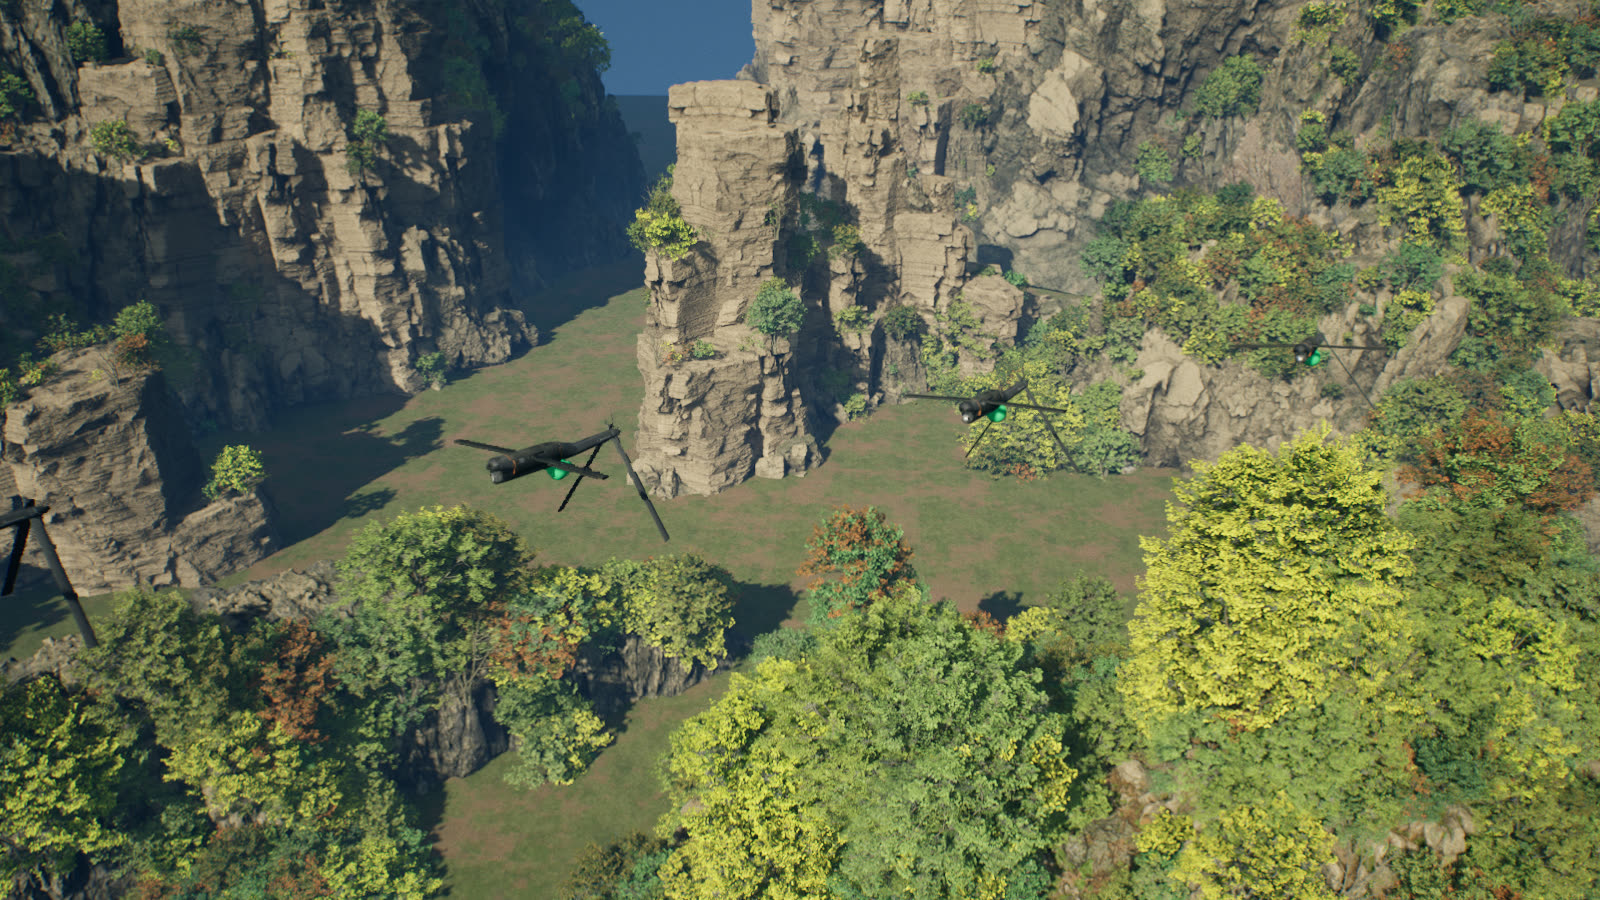
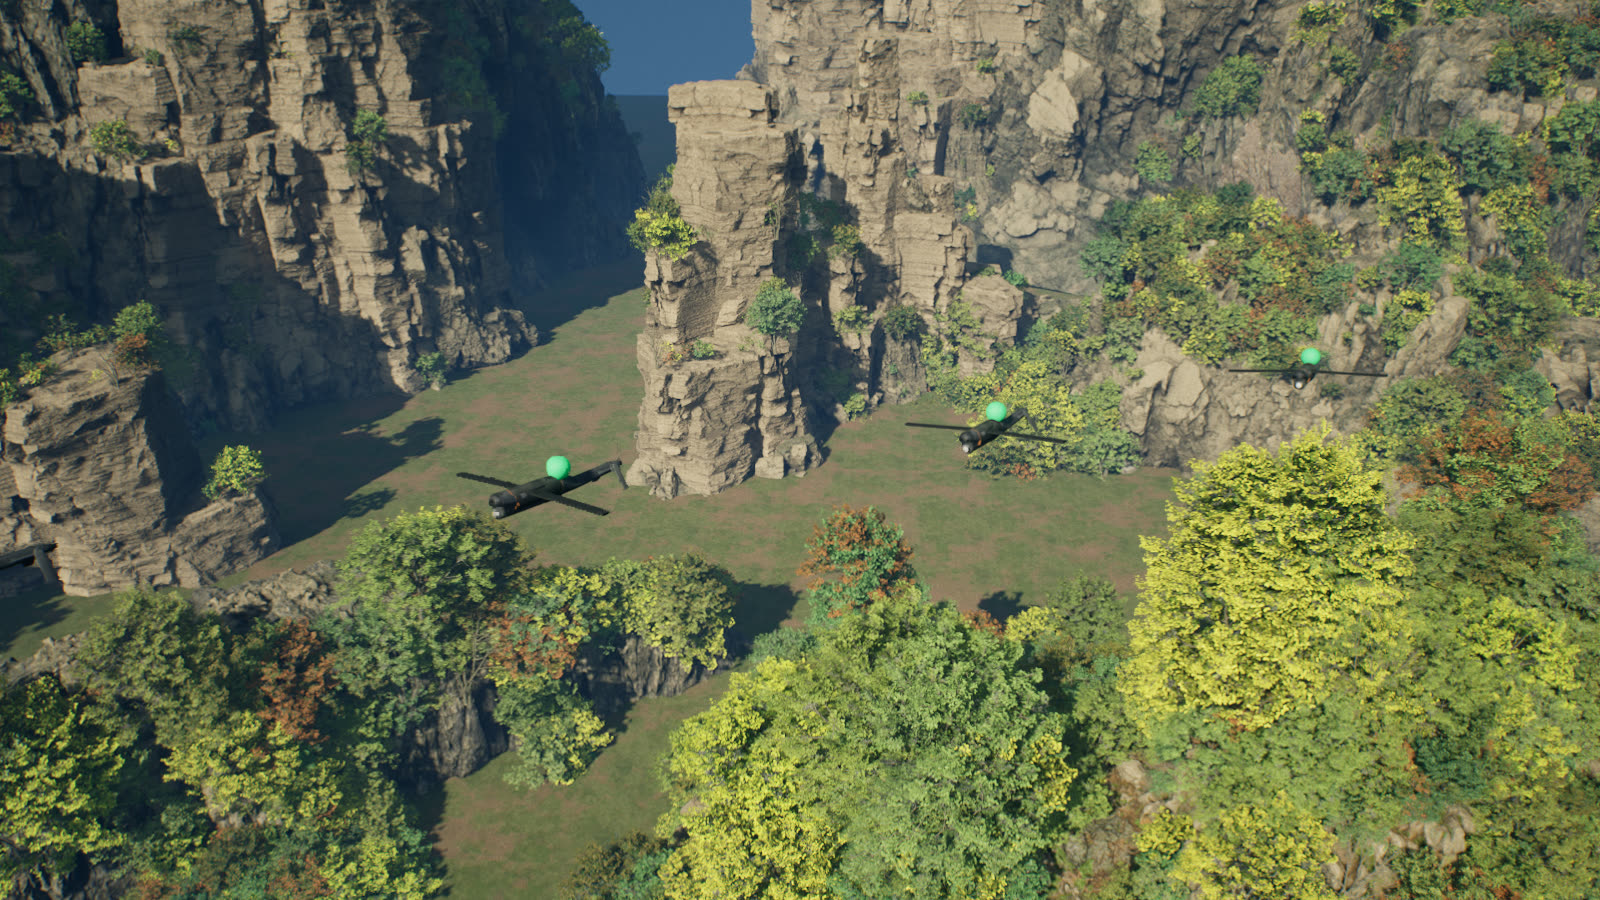
docs: bake the ALTIUS model's transforms before importing it; recapture the images
Unreal's glTF import composes the ALTIUS 700M model's nested non-uniform node scales wrongly. Each
imported mesh's bounds were compared with the exact world-space bounds computed from the glTF's
vertices: the fuselage, wings, and spinner matched, but the two tail surfaces were 4.3 and 4.55
times too large and the propeller blades 1.2 to 1.5 times too long and thinner than they should be.

scripts/bake_gltf_transforms.py bakes every node's world transform into its vertices and flattens
the hierarchy (reversing the winding of the eight meshes whose transforms mirror). The baked model
imports with bounds that match the glTF. docs/DEVELOPMENT.md now says how to bake and import the
model, which is not in the repository, and how to check the import; docs/MODELS.md and the viewer
phase document record the finding. The hero GIF and the three README screenshots are recaptured
with the corrected model.

diff --git a/scripts/bake_gltf_transforms.py b/scripts/bake_gltf_transforms.py
@@ -1,0 +1,203 @@
+"""Bakes the world transform of every mesh node of a glTF into its vertices and flattens the nodes.
+
+Usage:
+    python scripts/bake_gltf_transforms.py INPUT_DIR OUTPUT_DIR
+
+INPUT_DIR holds scene.gltf, scene.bin, and the folders it refers to (textures). OUTPUT_DIR gets the
+flattened scene.gltf and scene.bin, and a copy of everything else.
+
+Why: the ALTIUS 700M model nests nodes under parents with non-uniform scales (a parent scaled 4.55
+along one axis, its child scaled 0.22 so that the pair is a plain 1). Unreal's glTF import composes
+such chains wrongly: the tail surfaces came out 4.3 and 4.55 times too large and the propeller
+blades 1.2 to 1.5 times too long. With the transforms baked into the vertices, every mesh node is a
+child of one root with no transform, so there is no chain to compose.
+
+Positions are transformed by the world matrix. Normals are transformed by the inverse transpose of
+its linear part and renormalized. A world matrix that mirrors (a negative determinant) reverses the
+triangle winding. Texture coordinates, materials, and node and mesh names are kept. Only stdlib.
+"""
+
+import copy
+import json
+import math
+import os
+import shutil
+import struct
+import sys
+
+FLOAT = 5126
+USHORT = 5123
+UINT = 5125
+ARRAY_BUFFER = 34962
+ELEMENT_ARRAY_BUFFER = 34963
+
+
+def mat_mul(a, b):
+    return [[sum(a[i][k] * b[k][j] for k in range(4)) for j in range(4)] for i in range(4)]
+
+
+def local_matrix(node):
+    if "matrix" in node:
+        m = node["matrix"]
+        return [[m[c * 4 + r] for c in range(4)] for r in range(4)]
+    t = node.get("translation", [0.0, 0.0, 0.0])
+    x, y, z, w = node.get("rotation", [0.0, 0.0, 0.0, 1.0])
+    s = node.get("scale", [1.0, 1.0, 1.0])
+    rot = [
+        [1 - 2 * (y * y + z * z), 2 * (x * y - z * w), 2 * (x * z + y * w)],
+        [2 * (x * y + z * w), 1 - 2 * (x * x + z * z), 2 * (y * z - x * w)],
+        [2 * (x * z - y * w), 2 * (y * z + x * w), 1 - 2 * (x * x + y * y)],
+    ]
+    return [[rot[i][j] * s[j] for j in range(3)] + [t[i]] for i in range(3)] + [[0, 0, 0, 1]]
+
+
+def det3(m):
+    return (
+        m[0][0] * (m[1][1] * m[2][2] - m[1][2] * m[2][1])
+        - m[0][1] * (m[1][0] * m[2][2] - m[1][2] * m[2][0])
+        + m[0][2] * (m[1][0] * m[2][1] - m[1][1] * m[2][0])
+    )
+
+
+def inverse_transpose3(m):
+    d = det3(m)
+    cof = [
+        [
+            m[(i + 1) % 3][(j + 1) % 3] * m[(i + 2) % 3][(j + 2) % 3]
+            - m[(i + 1) % 3][(j + 2) % 3] * m[(i + 2) % 3][(j + 1) % 3]
+            for j in range(3)
+        ]
+        for i in range(3)
+    ]
+    return [[cof[i][j] / d for j in range(3)] for i in range(3)]
+
+
+def read_accessor(gltf, blob, index):
+    acc = gltf["accessors"][index]
+    view = gltf["bufferViews"][acc["bufferView"]]
+    components = {"SCALAR": 1, "VEC2": 2, "VEC3": 3, "VEC4": 4}[acc["type"]]
+    code = {FLOAT: "f", USHORT: "H", UINT: "I"}[acc["componentType"]]
+    size = struct.calcsize(code)
+    stride = view.get("byteStride", components * size)
+    base = view.get("byteOffset", 0) + acc.get("byteOffset", 0)
+    rows = []
+    for i in range(acc["count"]):
+        rows.append(struct.unpack_from("<" + code * components, blob, base + i * stride))
+    return rows
+
+
+def append_data(gltf, blob, rows, code, acc_type, component_type, target, minmax=False):
+    """Appends rows to the blob as a new buffer view and accessor; returns the accessor index."""
+    components = len(rows[0])
+    data = b"".join(struct.pack("<" + code * components, *row) for row in rows)
+    while len(blob) % 4:
+        blob.append(0)
+    gltf["bufferViews"].append(
+        {"buffer": 0, "byteOffset": len(blob), "byteLength": len(data), "target": target}
+    )
+    blob.extend(data)
+    accessor = {
+        "bufferView": len(gltf["bufferViews"]) - 1,
+        "componentType": component_type,
+        "count": len(rows),
+        "type": acc_type,
+    }
+    if minmax:
+        accessor["min"] = [min(r[k] for r in rows) for k in range(components)]
+        accessor["max"] = [max(r[k] for r in rows) for k in range(components)]
+    gltf["accessors"].append(accessor)
+    return len(gltf["accessors"]) - 1
+
+
+def bake(input_dir, output_dir):
+    with open(os.path.join(input_dir, "scene.gltf"), encoding="utf-8") as handle:
+        gltf = json.load(handle)
+    with open(os.path.join(input_dir, "scene.bin"), "rb") as handle:
+        blob = bytearray(handle.read())
+
+    nodes = gltf["nodes"]
+    parent = {}
+    for i, node in enumerate(nodes):
+        for child in node.get("children", []):
+            parent[child] = i
+
+    def world(i):
+        m = local_matrix(nodes[i])
+        while i in parent:
+            i = parent[i]
+            m = mat_mul(local_matrix(nodes[i]), m)
+        return m
+
+    mesh_nodes = [i for i, n in enumerate(nodes) if "mesh" in n]
+    used = [nodes[i]["mesh"] for i in mesh_nodes]
+    if len(set(used)) != len(used):
+        raise SystemExit("a mesh is used by more than one node; instancing is not handled")
+
+    flat = [{"name": "RootNode", "children": list(range(1, len(mesh_nodes) + 1))}]
+    for slot, i in enumerate(mesh_nodes, start=1):
+        w = world(i)
+        linear = [row[:3] for row in w[:3]]
+        mirrored = det3(linear) < 0
+        normal_matrix = inverse_transpose3(linear)
+        mesh = gltf["meshes"][nodes[i]["mesh"]]
+        for primitive in mesh["primitives"]:
+            attributes = primitive["attributes"]
+            pos = read_accessor(gltf, blob, attributes["POSITION"])
+            moved = [
+                tuple(sum(w[r][c] * p[c] for c in range(3)) + w[r][3] for r in range(3))
+                for p in pos
+            ]
+            attributes["POSITION"] = append_data(
+                gltf, blob, moved, "f", "VEC3", FLOAT, ARRAY_BUFFER, minmax=True
+            )
+            if "NORMAL" in attributes:
+                normals = read_accessor(gltf, blob, attributes["NORMAL"])
+                turned = []
+                for n in normals:
+                    v = [sum(normal_matrix[r][c] * n[c] for c in range(3)) for r in range(3)]
+                    length = math.sqrt(sum(a * a for a in v)) or 1.0
+                    turned.append(tuple(a / length for a in v))
+                attributes["NORMAL"] = append_data(
+                    gltf, blob, turned, "f", "VEC3", FLOAT, ARRAY_BUFFER
+                )
+            attributes.pop("TANGENT", None)
+            if mirrored and "indices" in primitive:
+                values = [row[0] for row in read_accessor(gltf, blob, primitive["indices"])]
+                for k in range(0, len(values) - 2, 3):
+                    values[k + 1], values[k + 2] = values[k + 2], values[k + 1]
+                old = gltf["accessors"][primitive["indices"]]
+                code = "H" if old["componentType"] == USHORT else "I"
+                primitive["indices"] = append_data(
+                    gltf, blob, [(v,) for v in values], code, "SCALAR", old["componentType"],
+                    ELEMENT_ARRAY_BUFFER,
+                )
+                print(f"  {nodes[i].get('name')}: mirrored, winding reversed")
+        flat.append({"name": nodes[i].get("name", f"mesh{slot}"), "mesh": nodes[i]["mesh"]})
+
+    gltf["nodes"] = flat
+    gltf["scenes"] = [{"name": gltf["scenes"][0].get("name", "scene"), "nodes": [0]}]
+    gltf["scene"] = 0
+    gltf["buffers"][0]["byteLength"] = len(blob)
+    gltf["buffers"][0]["uri"] = "scene.bin"
+
+    os.makedirs(output_dir, exist_ok=True)
+    for name in os.listdir(input_dir):
+        if name in ("scene.gltf", "scene.bin"):
+            continue
+        source = os.path.join(input_dir, name)
+        target = os.path.join(output_dir, name)
+        if os.path.isdir(source):
+            shutil.copytree(source, target, dirs_exist_ok=True)
+        else:
+            shutil.copy2(source, target)
+    with open(os.path.join(output_dir, "scene.bin"), "wb") as handle:
+        handle.write(bytes(blob))
+    with open(os.path.join(output_dir, "scene.gltf"), "w", encoding="utf-8") as handle:
+        json.dump(gltf, handle, indent=1)
+    print(f"baked {len(mesh_nodes)} mesh nodes into {output_dir}")
+
+
+if __name__ == "__main__":
+    if len(sys.argv) != 3:
+        raise SystemExit(__doc__)
+    bake(sys.argv[1], sys.argv[2])

diff --git a/docs/MODELS.md b/docs/MODELS.md
@@ -858,7 +858,7 @@ Limits. The simulation's cylinders are thin, so a pine looks bulkier than the cy
 
 `ASwarmPlayback` plays a run log. It reads the log with the replay reader (`swarm::Replay`) and moves one drone for each agent along the logged path: between two logged frames the position is the replay's cubic Hermite curve, and on a logged tick it is the logged position. The viewer computes nothing about the simulation.
 
-Display only. The log holds no attitude, so heading is the direction of the horizontal velocity (kept when the speed is under 0.5 m/s), and lean comes from the horizontal acceleration over gravity, taken over 5 ticks, split into pitch and roll, limited to 22 degrees, and smoothed with a 0.2 s time constant. Rotors spin at a fixed rate while a drone is alive. Drone color follows the logged fallback state (nominal green, degraded comms yellow, degraded navigation orange, safe hold red, failed dark gray). The drones are drawn 4 times life size by default (`-SwarmScale`) so they can be seen across a level. The drone is a stand-in built from engine cubes and cylinders, unless `-SwarmDroneModel=/Game/FOLDER` names a content folder. Every static mesh in that folder is then drawn as one aircraft, kept at the position it was authored at, centered, turned so that its +Y axis points along the heading, and scaled to a wingspan of 3.66 m before `-SwarmScale`. The model's materials take no color from the fallback state, so a small sphere on top of the fuselage shows it. For the ALTIUS 700M model of ADR 0010, the pusher propeller turns about the fuselage axis, at 140 degrees per meter per second of speed and only while the drone is alive. Its parts are the two thin blades (`Cylinder006` and `Cylinder012`) and the four small cylinders at their roots (`Cylinder007`, `Cylinder008`, `Cylinder010`, `Cylinder011`), found by name from the size and position of each mesh in the file. The tail surfaces (`C-Ext001`, `C-Ext002`, `Cylinder015`, `Cylinder016`) and the spinner (`Mesh002`) do not turn. A folder that holds a different model has no meshes with those names, so nothing in it spins. The folder is scanned when the drones are built, so a game finds assets that were never opened.
+Display only. The log holds no attitude, so heading is the direction of the horizontal velocity (kept when the speed is under 0.5 m/s), and lean comes from the horizontal acceleration over gravity, taken over 5 ticks, split into pitch and roll, limited to 22 degrees, and smoothed with a 0.2 s time constant. Rotors spin at a fixed rate while a drone is alive. Drone color follows the logged fallback state (nominal green, degraded comms yellow, degraded navigation orange, safe hold red, failed dark gray). The drones are drawn 4 times life size by default (`-SwarmScale`) so they can be seen across a level. The drone is a stand-in built from engine cubes and cylinders, unless `-SwarmDroneModel=/Game/FOLDER` names a content folder. Every static mesh in that folder is then drawn as one aircraft, kept at the position it was authored at, centered, turned so that its +Y axis points along the heading, and scaled to a wingspan of 3.66 m before `-SwarmScale`. The model's materials take no color from the fallback state, so a small sphere on top of the fuselage shows it. For the ALTIUS 700M model of ADR 0010, the pusher propeller turns about the fuselage axis, at 140 degrees per meter per second of speed and only while the drone is alive. Its parts are the two thin blades (`Cylinder006` and `Cylinder012`) and the four small cylinders at their roots (`Cylinder007`, `Cylinder008`, `Cylinder010`, `Cylinder011`), found by name from the size and position of each mesh in the file. The tail surfaces (`C-Ext001`, `C-Ext002`, `Cylinder015`, `Cylinder016`) and the spinner (`Mesh002`) do not turn. A folder that holds a different model has no meshes with those names, so nothing in it spins. The ALTIUS model has to be imported with its node transforms baked into the vertices (`scripts/bake_gltf_transforms.py`, see [DEVELOPMENT.md](DEVELOPMENT.md)): Unreal's own glTF import composes its nested non-uniform scales wrongly and draws the tail surfaces about 4.5 times too large. The folder is scanned when the drones are built, so a game finds assets that were never opened.
 
 Coordinates are converted with `SwarmCoordinates.h`: meters to centimeters, and y negated because Unreal is left-handed. `-SwarmAnchor=X,Y` puts the simulation's origin at that point of the level, in centimeters; heights are used as they are.
 

diff --git a/docs/phases/phase-08-unreal-viewer.md b/docs/phases/phase-08-unreal-viewer.md
@@ -128,4 +128,4 @@ MODELS.md sections for the replay reader and the interpolation, the scene export
 
 A lighting rig prototype (low sun, sky atmosphere, volumetric clouds, height fog, exposure, bloom, Lumen, and the pack's mountain ring as a backdrop) improved depth and mood in the renders, but not the quality of the vegetation and ground, which is the pack's own. It was not ported into the plugin. City Sample (Epic's urban sample) looked photographic and ran as a game, but a city is a poor setting for what the simulation models (see decision 0009). The Electric Dreams project's `SP_HoverDrone` plugin is a flyable camera pawn with no drone model.
 
-- 2026-10-22: The propeller of the ALTIUS model was wrong. The viewer turned the two tail surfaces (`C-Ext001`, `C-Ext002`, with `Cylinder015` and `Cylinder016`) instead of the small two-blade pusher propeller at the tail (`Cylinder006` and `Cylinder012` with four root cylinders), so the long flat plates swept round like rotor blades. Found from the per-mesh sizes and positions in the glTF and confirmed in consecutive frames, where the small blades turn and the tail surfaces stay still. The hero GIF and the README screenshots were recaptured.
+- 2026-10-22: The propeller of the ALTIUS model was wrong. The viewer turned the two tail surfaces (`C-Ext001`, `C-Ext002`, with `Cylinder015` and `Cylinder016`) instead of the small two-blade pusher propeller at the tail (`Cylinder006` and `Cylinder012` with four root cylinders), so the long flat plates swept round like rotor blades. Found from the per-mesh sizes and positions in the glTF and confirmed in consecutive frames, where the small blades turn and the tail surfaces stay still. The hero GIF and the README screenshots were recaptured. A second fault was in the same model: Unreal's glTF import composed the nested non-uniform node scales wrongly, so the tail surfaces came out 4.3 and 4.55 times too large and the blades 1.2 to 1.5 times too long (found by comparing each imported mesh's bounds with the exact world-space bounds computed from the glTF's vertices; the fuselage, wings, and spinner matched). `scripts/bake_gltf_transforms.py` bakes each node's world transform into its vertices, the baked file is imported as a new content folder, and the imported bounds then match the glTF. The images were recaptured again with it.

diff --git a/docs/DEVELOPMENT.md b/docs/DEVELOPMENT.md
@@ -101,6 +101,14 @@ UnrealEditor.exe PROJECT.uproject /Game/Levels/MAP -game -windowed -EnablePlugin
 
 Add `-SwarmShotDir=DIR -SwarmShotDelay=30 -SwarmShotCount=2` to save renders of the game and quit. The options are listed in `docs/MODELS.md`, under the Unreal viewer: playback.
 
+The aircraft model of the viewer is not in the repository. It is "Anduril ALTIUS 700M" by KillCaptureDestroy (CC-BY-4.0, https://sketchfab.com/3d-models/anduril-altius-700m-4e7fe35b0279418d85af34d33faa9db5), and its credit line is in the README. Unreal's glTF import composes the model's nested non-uniform node scales wrongly: the tail surfaces came out 4.3 and 4.55 times too large and the propeller blades 1.2 to 1.5 times too long. Bake the transforms into the vertices before importing. Download the glTF into a folder, then:
+
+```
+python scripts/bake_gltf_transforms.py DOWNLOADED_FOLDER BAKED_FOLDER
+```
+
+Import `BAKED_FOLDER/scene.gltf` into a content folder of the level's project, for example with the editor's Python (`unreal.AssetImportTask` with `destination_path="/Game/AltiusFixed"`, `automated=True`), and start the game with `-SwarmDroneModel=/Game/AltiusFixed`. To check the import, print each static mesh's `get_bounds()` and compare it with the sizes in the glTF, with x as x, glTF z as Unreal y, glTF y as Unreal z, and 100 Unreal units per glTF unit. The viewer picks the propeller by mesh name (see `SwarmPlayback.cpp`), so the names must be kept, as the script does.
+
 To write the scene file of a level for a scenario, run the game with the export options and the same anchor the playback will use:
 
 ```
